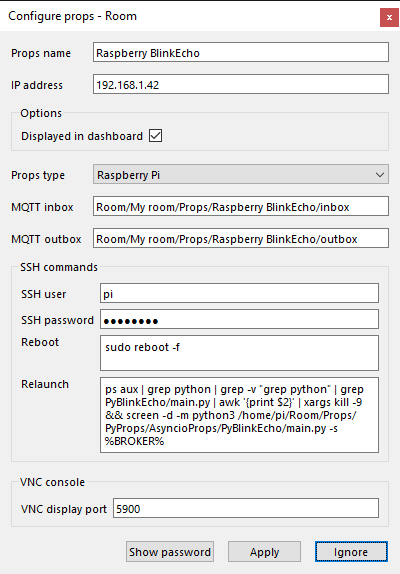
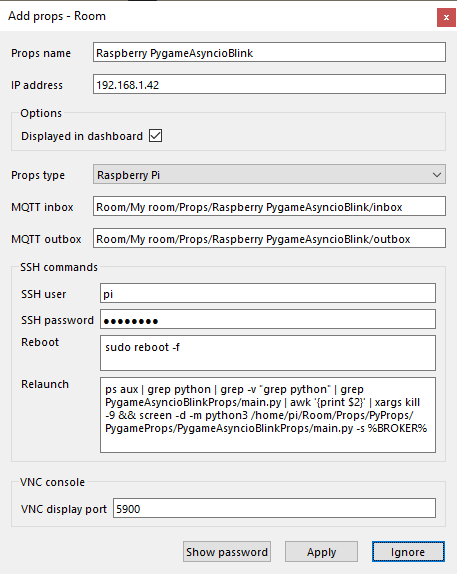
Introduce PygameAsyncioBlinkProps
As a draft yet

diff --git a/PygameProps/PygameAsyncioBlinkProps/README.md b/PygameProps/PygameAsyncioBlinkProps/README.md
@@ -3,17 +3,18 @@
 
 An educational example which makes a LED blinking.
 
-# !!!!!!!!! WORK IN PROGRESS
+This props uses Pygame and extends <a href="https://github.com/xcape-io/PyProps/blob/master/core/ThreadingProps.py" target="_blank">ThreadingProps</a> (so it uses multi-threading) .
 
 
 ## Installation
 See [INSTALLATION.md](.../INSTALLATION.md) and as a good habit is the PyProps folder is `/home/pi/Room/Props/PyProps`
 
 ### Dependencies
-If you don't install the whole PyProps library, you will have to fulfill the  *PygameAsyncioBlinkProps* requirements:
-* `PyProps/core/PropsData.py`
+If you don't install the whole PyProps library, you will have to fulfill the  *PygameBlinkProps* requirements:
+* `PyProps/core/ThreadingProps.py`
 * `PyProps/core/PropsApp.py`
 * `PyProps/core/MqttApp.py`
+* `PyProps/core/PropsData.py`
 * `PyProps/core/Singleton.py`
 
 And you will have to install following Python packages:
@@ -28,7 +29,9 @@ Start `main.py` script in `/home/pi/Room/Props/PyProps/PygameProps/PygameAsyncio
 ```bash
 pi@raspberrypi:~ $ python3 ~/Room/Props/PyProps/PygameProps/PygameAsyncioBlinkProps/main.py -s 192.168.1.42 -d
 
-Config: {'host': '192.168.1.42'}
+...
+...
+
 
 ```
 
@@ -41,7 +44,7 @@ $ ps aux | grep python | grep -v "grep python" | grep PygameAsyncioBlinkProps/ma
 ```
 
 
-## Blink Props as a props for <a href="https://xcape.io/" target="_blank">*xcape.io* **Room**</a>
+## Pygame Blink Props as a props for <a href="https://xcape.io/" target="_blank">*xcape.io* **Room**</a>
 To use *PygameAsyncioBlinkProps* as a props for <a href="https://xcape.io/" target="_blank">*xcape.io* **Room**</a> software, here are props commands and messages as well as a suggested control panel.
 
 ### Props commands
@@ -49,7 +52,7 @@ To use *PygameAsyncioBlinkProps* as a props for <a href="https://xcape.io/" targ
 * `blink:1` : activate blinking
 
 ### Props configuration
-Add and configure *Raspberry Blink* connected props.
+Add and configure *Raspberry PygameAsyncioBlink* connected props.
 
 ![Props configuration](props/props-configuration.png)
 

diff --git a/PygameProps/PygameBlinkProps/README.md b/PygameProps/PygameBlinkProps/README.md
@@ -29,8 +29,23 @@ Start `main.py` script in `/home/pi/Room/Props/PyProps/PygameProps/PygameBlinkPr
 ```bash
 pi@raspberrypi:~ $ python3 ~/Room/Props/PyProps/PygameProps/PygameBlinkProps/main.py -s 192.168.1.42 -d
 
+pygame 1.9.4.post1
+Hello from the pygame community. https://www.pygame.org/contribute.html
 Config: {'host': '192.168.1.42'}
-
+/home/pi/Room/Props/PyProps/PygameProps/PygameBlinkProps/BlinkApp.py:27: RuntimeWarning: This channel is already in use, continuing anyway.  Use GPIO.setwarnings(False) to disable warnings.
+  GPIO.setup(GPIO_BLINKING_LED, GPIO.OUT, initial=GPIO.LOW)
+INFO - New boolean Publishable 'led' (1/0) with initial=0
+INFO - New boolean Publishable 'blinking' (yes/no) with initial=0
+INFO - Program connected to MQTT server
+INFO - Program sending message 'CONNECTED' (mid=1) on Room/My room/Props/Raspberry PygameBlink/outbox
+INFO - Program subscribing to topic (mid=2) : Room/My room/Props/Raspberry PygameBlink/inbox
+INFO - Program sending message 'DATA led=0 blinking=no' (mid=3) on Room/My room/Props/Raspberry PygameBlink/outbox
+DEBUG - MQTT message is published : mid=1 userdata={'host': '192.168.1.42', 'port': 1883}
+INFO - Message published (mid=1)
+DEBUG - MQTT message is published : mid=3 userdata={'host': '192.168.1.42', 'port': 1883}
+INFO - Message published (mid=3)
+DEBUG - MQTT topic is subscribed : mid=2 granted_qos=(0,)
+INFO - Program susbcribed to topic (mid=2) with QoS (0,)
 ```
 
 
